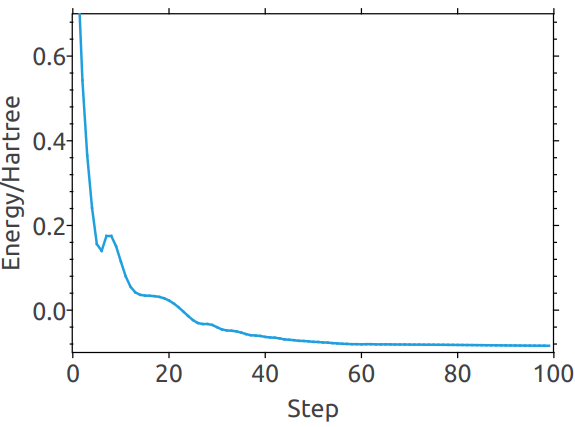
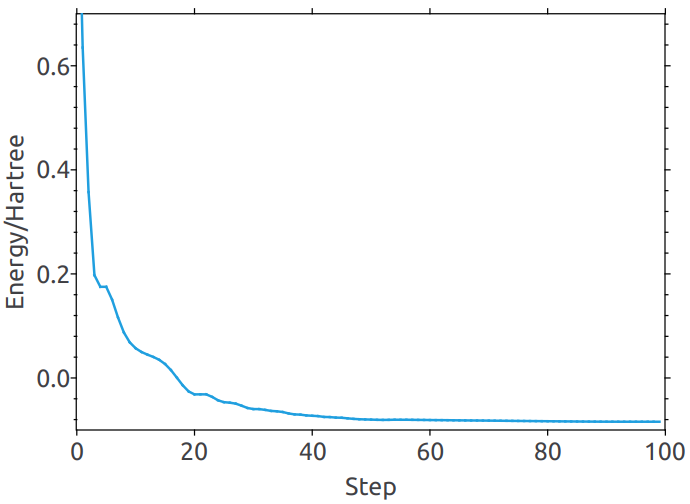
Refactor

diff --git a/include/Physica/Core/Physics/MD/KineticModel/FireModel.h b/include/Physica/Core/Physics/MD/KineticModel/FireModel.h
@@ -20,7 +20,7 @@
 
 namespace Physica::Core {
     /**
-     * Fast inertial relaxation engine(FIRE) as introduced in [1]
+     * Fast inertial relaxation engine(FIRE) as introduced in [1, 2]
      * 
      * Reference:
      * [1] Phys. Rev. Lett. 97, 170201 (2006); https://doi.org/10.1103/PhysRevLett.97.170201
@@ -38,6 +38,8 @@ namespace Physica::Core {
         ScalarType mixAlpha;
         ScalarType alphaDecFactor;
         unsigned int numLasyStep;
+
+        ScalarType normF;
         unsigned int numStep;
     public:
         FireModel(ScalarType timeStep_,
@@ -53,10 +55,11 @@ namespace Physica::Core {
         /* Operators */
         FireModel& operator=(FireModel obj) noexcept { swap(obj); return *this; }
         /* Operations */
-        void forceStep(MDType& rpmd);
+        void mixingStep(MDType& rpmd);
         void swap(FireModel& __restrict obj) noexcept;
         /* Getters */
         [[nodiscard]] ScalarType getTimeStep() const noexcept { return timeStep; }
+        [[nodiscard]] ScalarType getForceNorm() const noexcept { return normF; } //Use force norm as convergence criteria as suggested by [2]
     };
     /**
      * Default param provided in [1]
@@ -89,14 +92,14 @@ namespace Physica::Core {
     }
 
     template<class ScalarType, unsigned int Dim>
-    void FireModel<ScalarType, Dim>::forceStep(MDType& rpmd) {
+    void FireModel<ScalarType, Dim>::mixingStep(MDType& rpmd) {
         const auto force = rpmd.getForce().col(0);
         auto phase = rpmd.getPhaseMatrix().col(0);
         auto momentum = phase.head(rpmd.getDOF());
 
         const ScalarType normP = momentum.norm();
-        const ScalarType normF = force.norm();
-        momentum = (ScalarType(1) - mixAlpha) * momentum + (timeStep + mixAlpha * normP / normF) * force.asVector();
+        normF = force.norm();
+        momentum = (ScalarType(1) - mixAlpha) * momentum + (mixAlpha * normP / normF) * force.asVector();
         const ScalarType power = force.asVector() * momentum; //Assuming unit mass
         if (power.isPositive()) {
             if (numStep > numLasyStep) {
@@ -124,6 +127,8 @@ namespace Physica::Core {
         mixAlpha.swap(obj.mixAlpha);
         alphaDecFactor.swap(obj.alphaDecFactor);
         std::swap(numLasyStep, obj.numLasyStep);
+
+        normF.swap(obj.normF);
         std::swap(numStep, obj.numStep);
     }
 }

diff --git a/include/Physica/Core/Physics/MD/MDImpl/RPMDImpl.h b/include/Physica/Core/Physics/MD/MDImpl/RPMDImpl.h
@@ -250,7 +250,12 @@ namespace Physica::Core {
         for (uint64_t _ = 0; _ < step; ++_)
             npt_step<Thermostat, RandomPoolType, Barostat, KineticModel, ForceModel, Executor>(thermostat, barostat, kineticModel, forceModel);
     }
-
+    /**
+     * Euler Semi-implicit integrator as introduced in [1]
+     * 
+     * Reference:
+     * [1] Comput. Mater. Sci. 175, 109584 (2020); https://doi.org/10.1016/j.commatsci.2020.109584
+     */
     template<class ScalarType, unsigned int Dim, size_t NumReplica, class ForceMatrixAllocator>
     template<class KineticModel, class ForceModel, class Executor>
     void RPMD<ScalarType, Dim, NumReplica, ForceMatrixAllocator>::fire_vstep(
@@ -261,9 +266,10 @@ namespace Physica::Core {
         static_assert(NumReplica == 1, "[Error]: Relaxing using PIMD makes no sence, NumReplica = 1 shall be enough");
         static_assert(!Internal::is_empty_force_model<ForceModel>::value, "[Error]: Relax a empty model does nothing");
 
-        fire.forceStep(*this);
         kineticModel.nve_step(ringPolymer, timeStep);
         updateForce<ForceModel, Executor>(forceModel);
+        forceStep(fire.getTimeStep());
+        fire.mixingStep(*this);
     }
 
     template<class ScalarType, unsigned int Dim, size_t NumReplica, class ForceMatrixAllocator>
